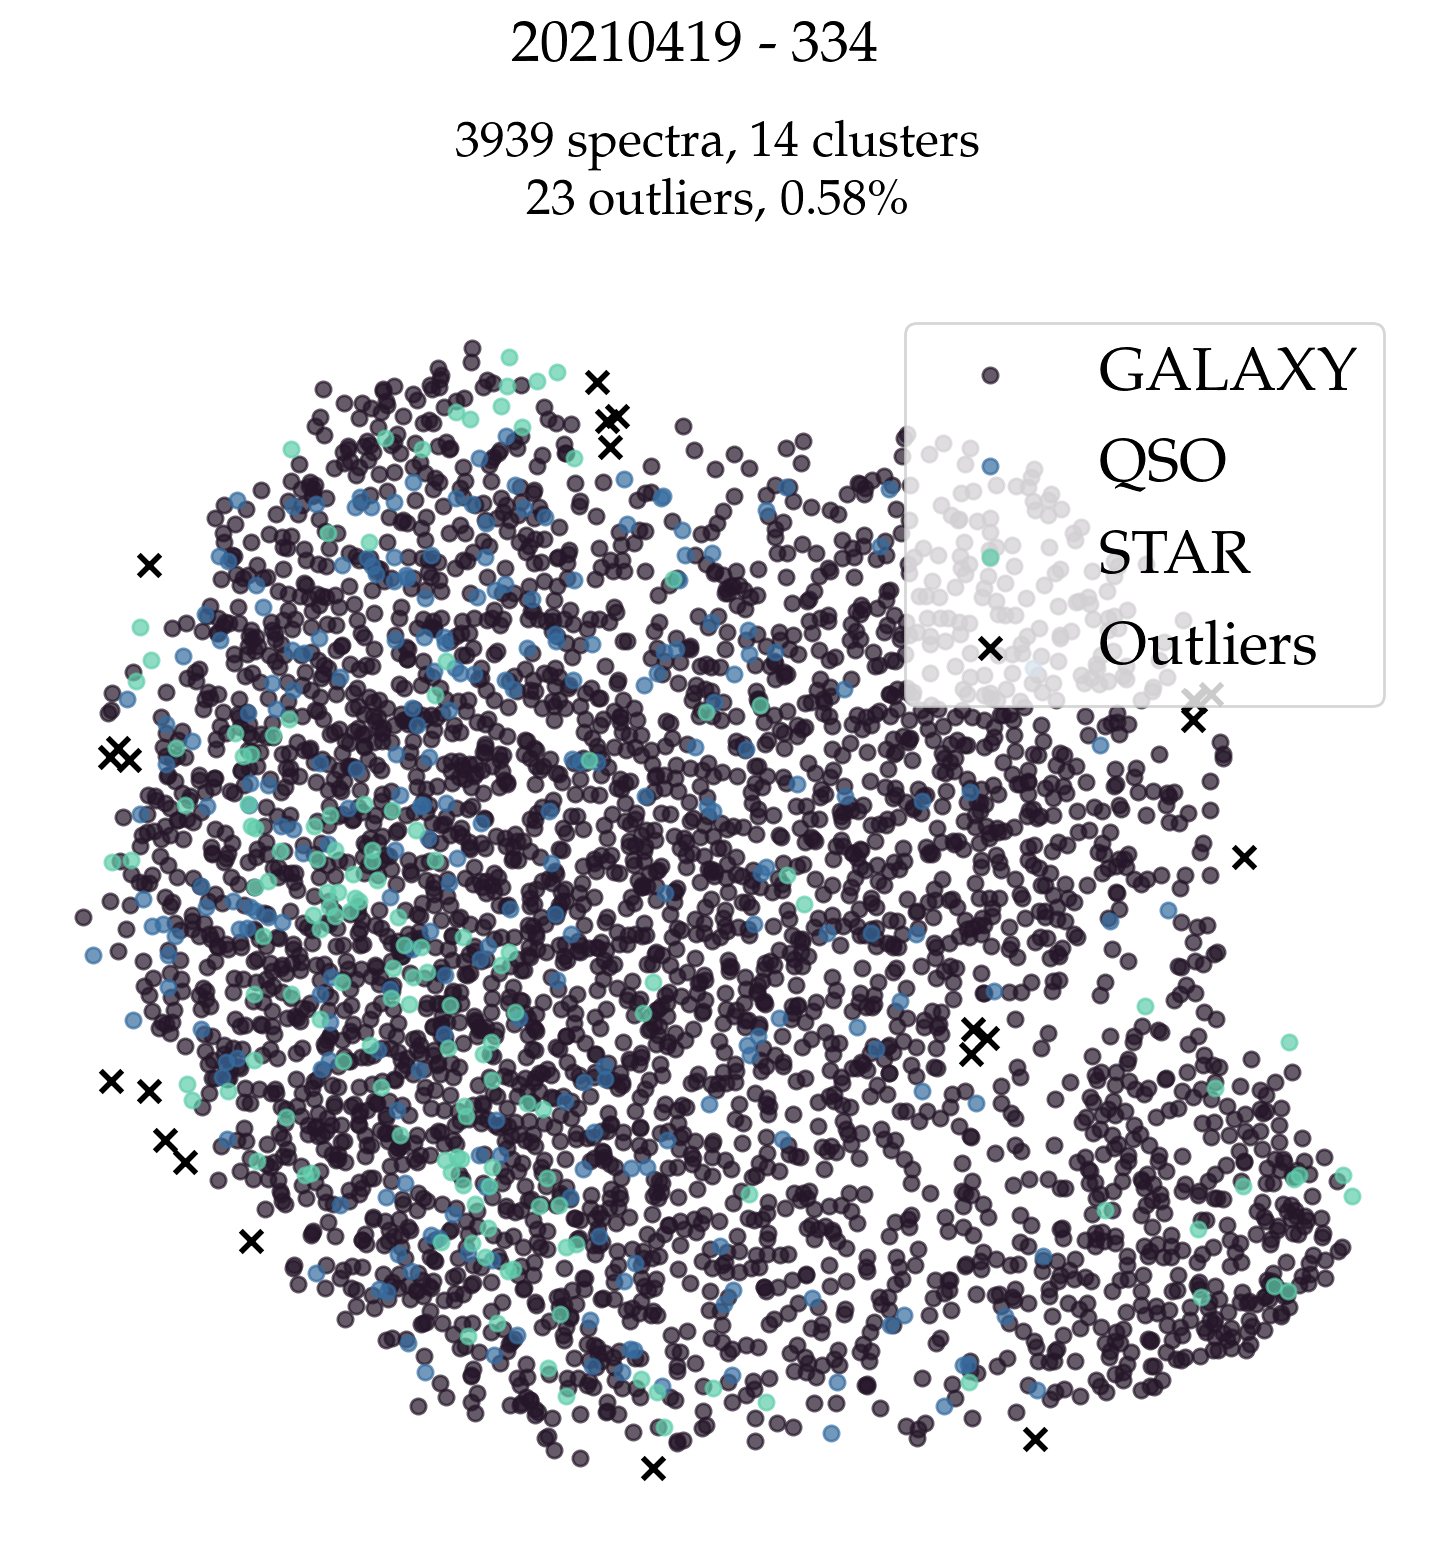
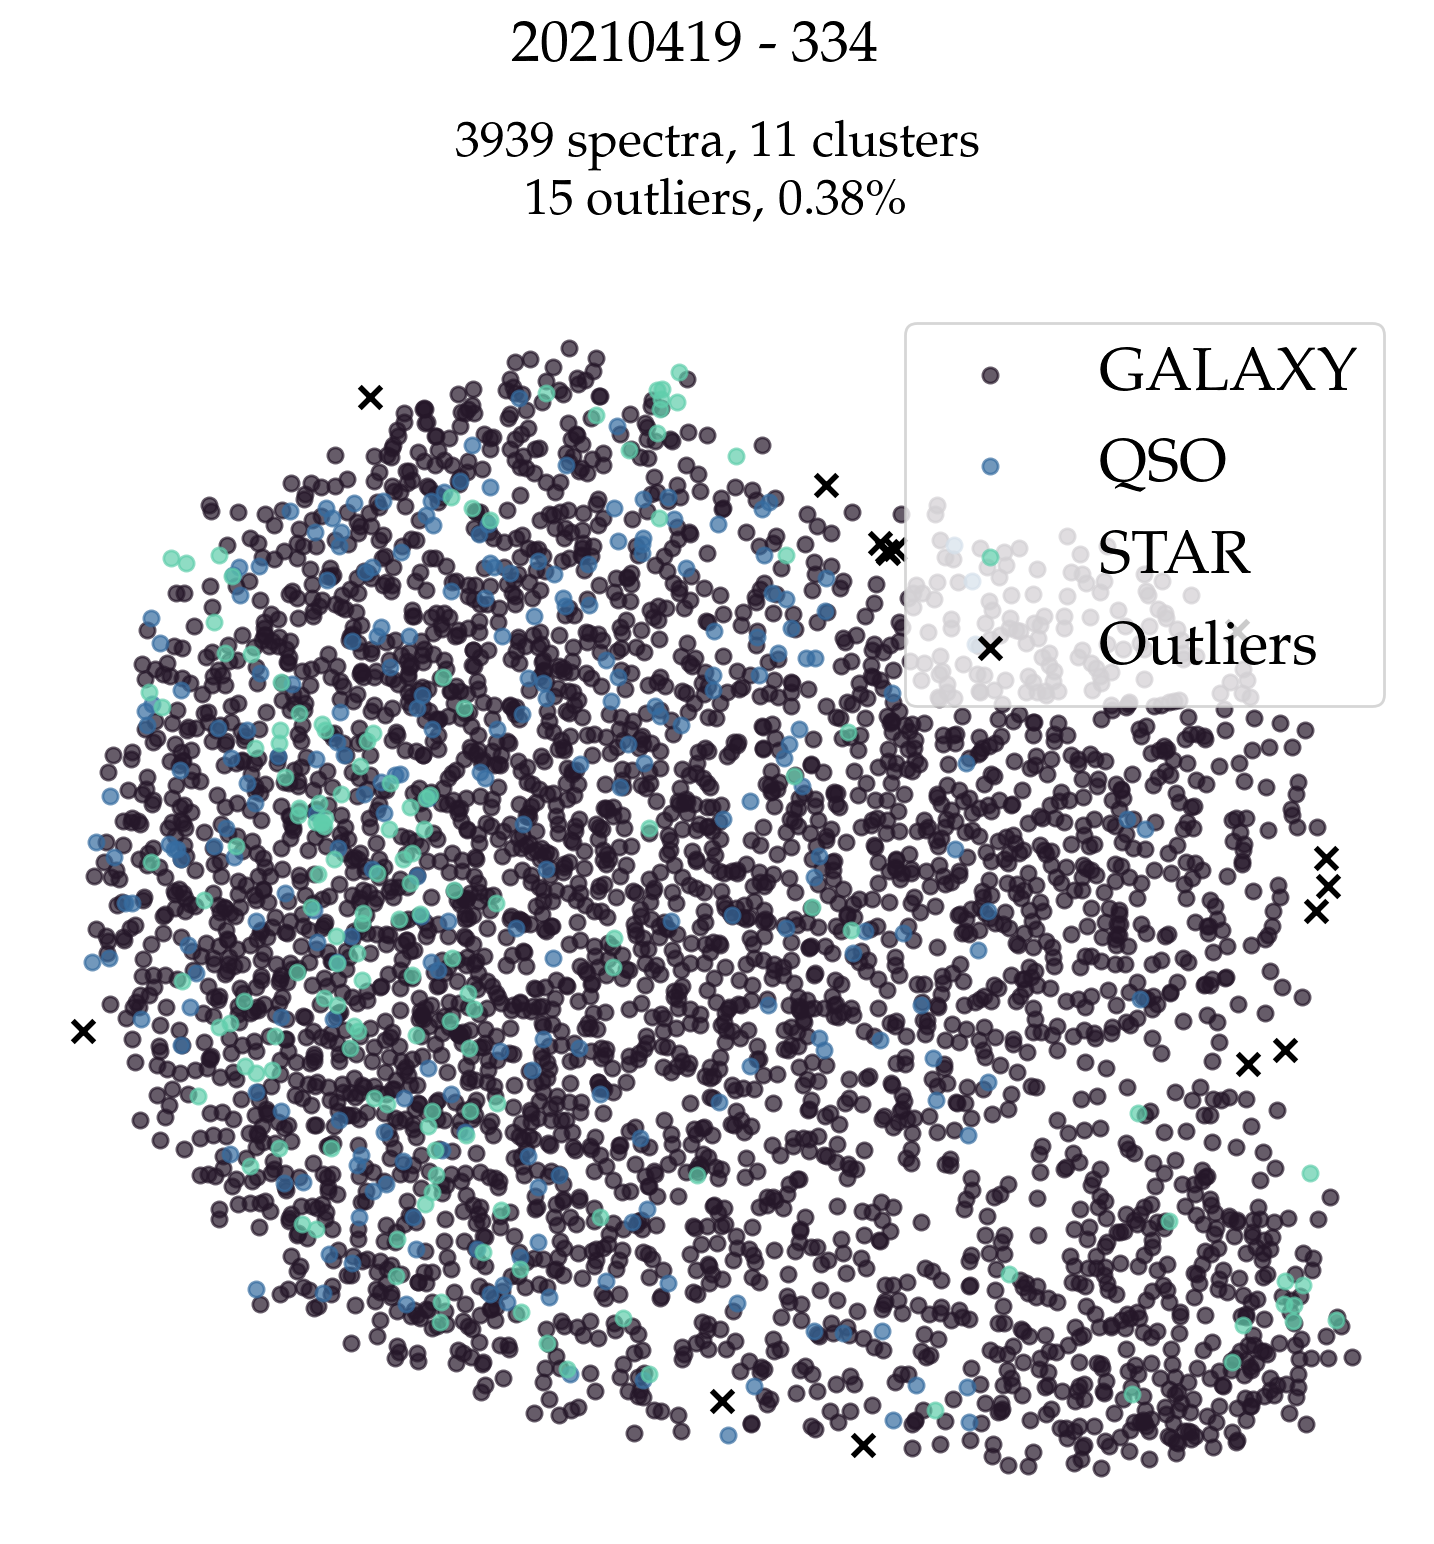
update 334

diff --git a/index.html b/index.html
@@ -80,7 +80,7 @@
                     class="btn btn-outline-primary mb-3" target="_blank" rel="noopener">
                     Get text file
                 </a>
-                <a href="https://inspector.desi.lbl.gov/loa/spectra/tiles/334/854,1071,1076,1415,1536,1671,1786,1808,2115,2807,2935,3230,3476,3581,3644,4062,4105,4209,4222,4872,4879,4899,4964"
+                <a href="https://inspector.desi.lbl.gov/loa/spectra/tiles/334/1017,1081,1294,1356,1412,1535,1536,1554,1934,2575,3526,3873,3982,4209,4391"
                     class="btn btn-outline-primary mb-3" target="_blank" rel="noopener">
                     DESI Inspector
                 </a>
@@ -88,101 +88,50 @@
 
             <div class="d-flex flex-wrap gap-2">
               
-                <img src="data/plots/spectra/20210419/spec_334_1_39633123184478106.png"
-                     class="spectra-img img-thumbnail" alt="spec_334_1_39633123184478106.png">
+                <img src="data/plots/spectra/20210419/spec_334_2_39633127626246017.png"
+                     class="spectra-img img-thumbnail" alt="spec_334_2_39633127626246017.png">
               
-                <img src="data/plots/spectra/20210419/spec_334_2_39633127630439580.png"
-                     class="spectra-img img-thumbnail" alt="spec_334_2_39633127630439580.png">
+                <img src="data/plots/spectra/20210419/spec_334_2_39633127630440323.png"
+                     class="spectra-img img-thumbnail" alt="spec_334_2_39633127630440323.png">
               
-                <img src="data/plots/spectra/20210419/spec_334_2_39633132059624172.png"
-                     class="spectra-img img-thumbnail" alt="spec_334_2_39633132059624172.png">
+                <img src="data/plots/spectra/20210419/spec_334_2_39633136484616495.png"
+                     class="spectra-img img-thumbnail" alt="spec_334_2_39633136484616495.png">
               
-                <img src="data/plots/spectra/20210419/spec_334_2_39633140888634133.png"
-                     class="spectra-img img-thumbnail" alt="spec_334_2_39633140888634133.png">
+                <img src="data/plots/spectra/20210419/spec_334_2_39633140876054179.png"
+                     class="spectra-img img-thumbnail" alt="spec_334_2_39633140876054179.png">
               
-                <img src="data/plots/spectra/20210419/spec_334_2_616093888792232906.png"
-                     class="spectra-img img-thumbnail" alt="spec_334_2_616093888792232906.png">
-              
-                <img src="data/plots/spectra/20210419/spec_334_3_39633140880245905.png"
-                     class="spectra-img img-thumbnail" alt="spec_334_3_39633140880245905.png">
+                <img src="data/plots/spectra/20210419/spec_334_2_39633140888633552.png"
+                     class="spectra-img img-thumbnail" alt="spec_334_2_39633140888633552.png">
               
                 <img src="data/plots/spectra/20210419/spec_334_3_39633140897023975.png"
                      class="spectra-img img-thumbnail" alt="spec_334_3_39633140897023975.png">
               
-                <img src="data/plots/spectra/20210419/spec_334_3_39633145275876584.png"
-                     class="spectra-img img-thumbnail" alt="spec_334_3_39633145275876584.png">
+                <img src="data/plots/spectra/20210419/spec_334_3_39633145275878016.png"
+                     class="spectra-img img-thumbnail" alt="spec_334_3_39633145275878016.png">
               
-                <img src="data/plots/spectra/20210419/spec_334_3_39633149629565927.png"
-                     class="spectra-img img-thumbnail" alt="spec_334_3_39633149629565927.png">
+                <img src="data/plots/spectra/20210419/spec_334_3_39633149637951818.png"
+                     class="spectra-img img-thumbnail" alt="spec_334_3_39633149637951818.png">
               
-                <img src="data/plots/spectra/20210419/spec_334_3_39633149637954175.png"
-                     class="spectra-img img-thumbnail" alt="spec_334_3_39633149637954175.png">
+                <img src="data/plots/spectra/20210419/spec_334_3_39633153979057536.png"
+                     class="spectra-img img-thumbnail" alt="spec_334_3_39633153979057536.png">
               
-                <img src="data/plots/spectra/20210419/spec_334_3_616093897570911137.png"
-                     class="spectra-img img-thumbnail" alt="spec_334_3_616093897570911137.png">
+                <img src="data/plots/spectra/20210419/spec_334_5_39633166931068328.png"
+                     class="spectra-img img-thumbnail" alt="spec_334_5_39633166931068328.png">
               
-                <img src="data/plots/spectra/20210419/spec_334_4_39633145284264104.png"
-                     class="spectra-img img-thumbnail" alt="spec_334_4_39633145284264104.png">
+                <img src="data/plots/spectra/20210419/spec_334_7_39633145292654985.png"
+                     class="spectra-img img-thumbnail" alt="spec_334_7_39633145292654985.png">
               
-                <img src="data/plots/spectra/20210419/spec_334_5_39633149654729369.png"
-                     class="spectra-img img-thumbnail" alt="spec_334_5_39633149654729369.png">
+                <img src="data/plots/spectra/20210419/spec_334_7_39633145301042696.png"
+                     class="spectra-img img-thumbnail" alt="spec_334_7_39633145301042696.png">
               
-                <img src="data/plots/spectra/20210419/spec_334_5_39633166918486234.png"
-                     class="spectra-img img-thumbnail" alt="spec_334_5_39633166918486234.png">
+                <img src="data/plots/spectra/20210419/spec_334_7_616093893213029472.png"
+                     class="spectra-img img-thumbnail" alt="spec_334_7_616093893213029472.png">
               
-                <img src="data/plots/spectra/20210419/spec_334_5_616093914939523899.png"
-                     class="spectra-img img-thumbnail" alt="spec_334_5_616093914939523899.png">
-              
-                <img src="data/plots/spectra/20210419/spec_334_6_39633149663117652.png"
-                     class="spectra-img img-thumbnail" alt="spec_334_6_39633149663117652.png">
-              
-                <img src="data/plots/spectra/20210419/spec_334_6_39633166939456779.png"
-                     class="spectra-img img-thumbnail" alt="spec_334_6_39633166939456779.png">
-              
-                <img src="data/plots/spectra/20210419/spec_334_7_39633149667311668.png"
-                     class="spectra-img img-thumbnail" alt="spec_334_7_39633149667311668.png">
-              
-                <img src="data/plots/spectra/20210419/spec_334_7_39633154016806104.png"
-                     class="spectra-img img-thumbnail" alt="spec_334_7_39633154016806104.png">
-              
-                <img src="data/plots/spectra/20210419/spec_334_8_39633132093180519.png"
-                     class="spectra-img img-thumbnail" alt="spec_334_8_39633132093180519.png">
+                <img src="data/plots/spectra/20210419/spec_334_8_39633132105762348.png"
+                     class="spectra-img img-thumbnail" alt="spec_334_8_39633132105762348.png">
               
                 <img src="data/plots/spectra/20210419/spec_334_8_39633136509780133.png"
                      class="spectra-img img-thumbnail" alt="spec_334_8_39633136509780133.png">
-              
-                <img src="data/plots/spectra/20210419/spec_334_8_39633136509781431.png"
-                     class="spectra-img img-thumbnail" alt="spec_334_8_39633136509781431.png">
-              
-                <img src="data/plots/spectra/20210419/spec_334_8_39633136522364520.png"
-                     class="spectra-img img-thumbnail" alt="spec_334_8_39633136522364520.png">
-              
-                <img src="data/plots/spectra/20210419/spec_334_8_39633140901220318.png"
-                     class="spectra-img img-thumbnail" alt="spec_334_8_39633140901220318.png">
-              
-                <img src="data/plots/spectra/20210419/spec_334_8_39633140905412423.png"
-                     class="spectra-img img-thumbnail" alt="spec_334_8_39633140905412423.png">
-              
-                <img src="data/plots/spectra/20210419/spec_334_8_616093879967417371.png"
-                     class="spectra-img img-thumbnail" alt="spec_334_8_616093879967417371.png">
-              
-                <img src="data/plots/spectra/20210419/spec_334_9_39633123201257149.png"
-                     class="spectra-img img-thumbnail" alt="spec_334_9_39633123201257149.png">
-              
-                <img src="data/plots/spectra/20210419/spec_334_9_39633123213838081.png"
-                     class="spectra-img img-thumbnail" alt="spec_334_9_39633123213838081.png">
-              
-                <img src="data/plots/spectra/20210419/spec_334_9_39633132088986505.png"
-                     class="spectra-img img-thumbnail" alt="spec_334_9_39633132088986505.png">
-              
-                <img src="data/plots/spectra/20210419/spec_334_9_39633136501394276.png"
-                     class="spectra-img img-thumbnail" alt="spec_334_9_39633136501394276.png">
-              
-                <img src="data/plots/spectra/20210419/spec_334_9_39633136501394683.png"
-                     class="spectra-img img-thumbnail" alt="spec_334_9_39633136501394683.png">
-              
-                <img src="data/plots/spectra/20210419/spec_334_9_39633136505585971.png"
-                     class="spectra-img img-thumbnail" alt="spec_334_9_39633136505585971.png">
               
             </div>
           </div>
